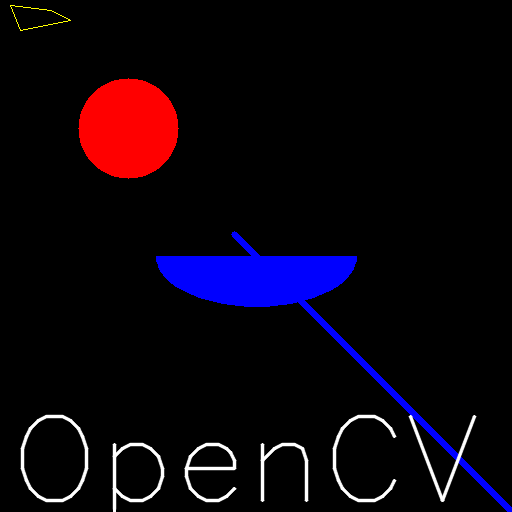
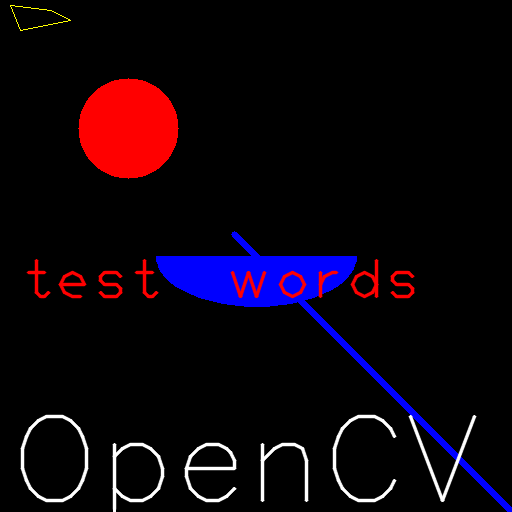
添加视频脚本

Changed region(s): [[0.0625, 0.5, 0.3125, 0.5938], [0.4375, 0.5312, 0.6562, 0.5938], [0.6875, 0.5, 0.8125, 0.5938]]

diff --git a/saving_video.py b/saving_video.py
@@ -1,0 +1,28 @@
+import numpy as np
+import cv2 as cv
+
+cap = cv.VideoCapture(0)
+
+# define the codec and create VideoWriter object
+
+fourcc = cv.VideoWriter_fourcc(*'DIVX')
+size = (int(cap.get(cv.CAP_PROP_FRAME_WIDTH)),int(cap.get(cv.CAP_PROP_FRAME_HEIGHT)))
+out = cv.VideoWriter('test3.mov',fourcc,20,size)
+while(cap.isOpened()):
+    ret,frame = cap.read()
+    if ret==True:
+        frame = cv.flip(frame,0)
+
+        # write the flipped frame
+        out.write(frame)
+
+        cv.imshow('frame',frame)
+        if cv.waitKey(1) & 0xff == ord('q'):
+            break
+    else:
+        break
+# Release everything if job is finished
+
+cap.release()
+out.release()
+cv.destroyAllWindows()

diff --git a/image_processing.py b/image_processing.py
@@ -16,10 +16,15 @@ cv.ellipse(img,(256,256),(100,50),0,0,180,255,-1)
 
 pts = np.array([[10,5],[20,30],[70,20],[50,10]], np.int32)
 pts = pts.reshape((-1,1,2))
+print(pts.shape)
+print(pts)
 cv.polylines(img,[pts],True,(0,255,255))
 
 
 font = cv.FONT_HERSHEY_SIMPLEX
 cv.putText(img,'OpenCV',(10,500), font, 4,(255,255,255),2,cv.LINE_AA)
+
+font2 = cv.FONT_HERSHEY_PLAIN
+cv.putText(img,"test  words",(20,300),font2,4,(0,0,255),2,cv.LINE_AA)
 
 cv.imwrite("text.png",img)

diff --git a/capture_video.py b/capture_video.py
@@ -1,0 +1,19 @@
+import numpy as np
+import cv2 as cv
+
+cap = cv.VideoCapture(0)
+
+while(True):
+    #Capture frame by frame
+    ret,frame = cap.read()
+
+    # operations on the frame come here
+    gray = cv.cvtColor(frame,cv.COLOR_BGR2GRAY)
+
+    # display the resulting frame
+    cv.imshow('frame',gray)
+    if cv.waitKey(1) & 0xff == ord('q'):
+        break
+# release the capture
+cap.release()
+cv.destroyAllWindows()

diff --git a/playing_video.py b/playing_video.py
@@ -1,0 +1,17 @@
+import numpy as np
+import cv2 as cv
+
+cap = cv.VideoCapture('test3.mov')
+
+print(cap.isOpened())
+
+while(cap.isOpened()):
+    ret,frame = cap.read()
+
+    gray = cv.cvtColor(frame, cv.COLOR_BGR2GRAY)
+
+    cv.imshow('frame', gray)
+    if cv.waitKey(1) & 0xFF == ord('q'):
+        break
+cap.release()
+cv.destroyAllWindows()
